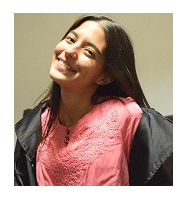
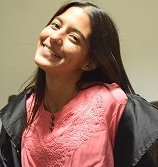
Modificacion del header

diff --git a/CvPersonal/css/styles.css b/CvPersonal/css/styles.css
@@ -34,21 +34,22 @@ header:before {
         background-color: rgba(0,0,0,0.5);
 }
 .fotopersonal {
-    display: block;
-    width: 0%;
-    position: relative;
+    position: absolute;
+    right:0px;
+    border:5px solid black;
+    border-radius: 10px;
     
 }
 h1 {
-    margin-left:50px;
     letter-spacing: 10px;
     word-spacing: 5px;
     font-size: 40px;
     color:#d4a373;
     font-weight: 700;
     text-transform: uppercase;
-    position: relative;
-    text-align: right;
+    position: absolute;
+    bottom: 5px;
+    left: 20px;
 }
 
 /* Main */

diff --git a/CvPersonal/sobremi.html b/CvPersonal/sobremi.html
@@ -14,9 +14,9 @@
 
 <body>
     <header>
+        <h1>¡Bienvenidos!</h1>
     </header>
     <main>
-        <h1>¡Bienvenidos!</h1>
         <section class="secciones">
             <p> Mi nombre es Daiana Valentini y vivo en Rosario, Santa Fe, provincia de Argentina.</p>
             <p> Actualmente soy estudiante de la Universidad Nacional de Rosario y me encuentro cursando el último

diff --git a/CvPersonal/index.html b/CvPersonal/index.html
@@ -14,8 +14,8 @@
 
 <body>
     <header>
-        <div class="fotopersonal">
-            <img src="img/foto.png" alt="Foto personal">
+        <div>
+            <img src="img/foto.png" alt="Foto personal" class="fotopersonal">
         </div>
 
         <h1>Curriculum Vitae</h1>
